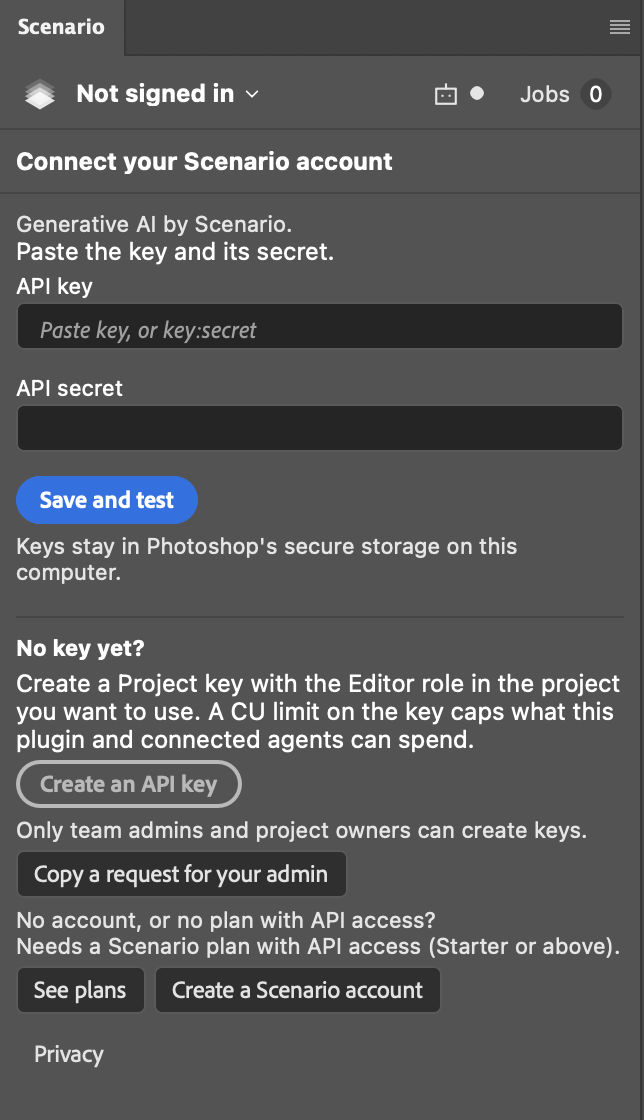
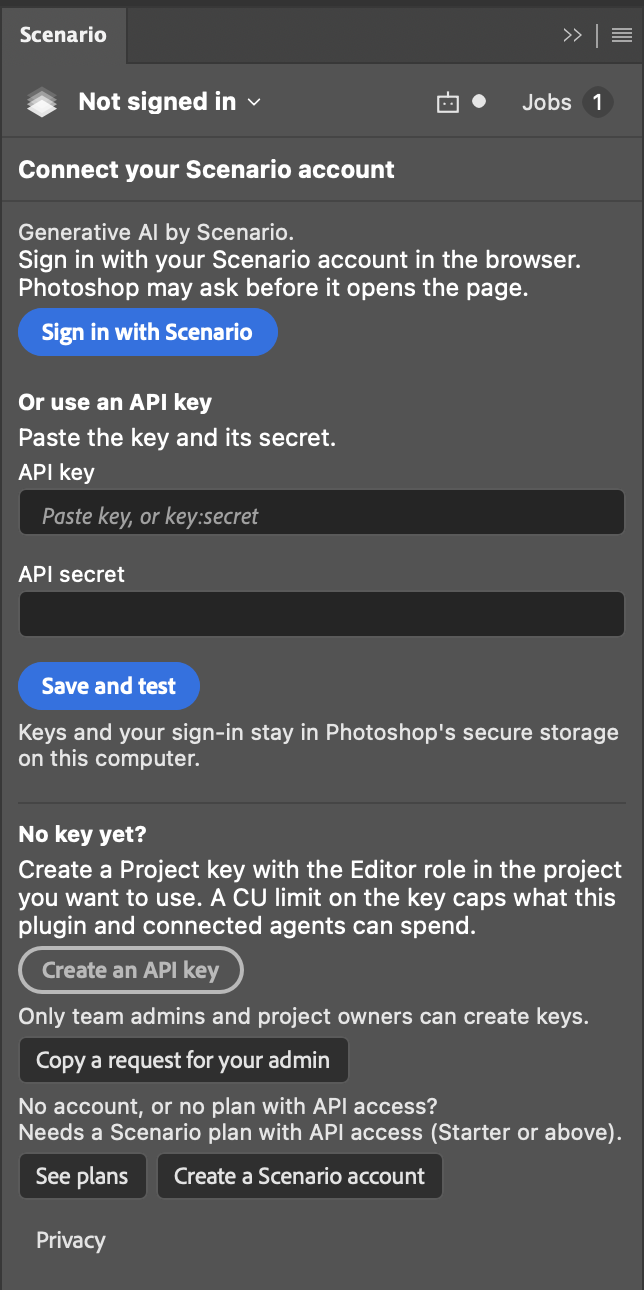
docs: Sign in with Scenario verified live in Photoshop 27.11
Known limitations, status and the changelog record the live run
against the development identity provider and staging: the
permission dialog, the approval page, the chooser, a paid run,
switching, Test connection after a restart, a declined sign-in and
Sign out, and what was not run live. The user guide, README and SPEC
4.6 describe the page as it is (no code shown, Copy code for a page
that asks). AGENTS.md gives the UI loop commands for the live check
and the sample-name demos. The first-run screenshot shows the new
sign-in view.

diff --git a/docs/STATUS.md b/docs/STATUS.md
@@ -9,7 +9,7 @@ Each statement below carries how it was checked: *verified live* (in Photoshop),
 ## What this build does
 
 - **Plugin** (`plugin/`): a compact panel in Photoshop's own style (12 px text, 13 px for the action, small controls, outline icons in the theme's text color, so it follows the four interface brightness themes). One header row: the Scenario mark, the project name, the agent icon with its dot and client name, and **Jobs** with a count. Below it: the context card (a picture and two lines, what is selected and where the result lands, with the progress while a run is generating), the action chips for that context (at most six, then **More**), then the Takes card and Recent in the part that scrolls, and the composer pinned at the bottom: the references row, the prompt (or one line for an action without one), the chips that set the model and its settings (each shows its value), the action button with its price and the settings icon. Projects, Settings, Connect an AI Agent, Diagnostics, Help, About and Sign Out are in the panel menu. Settings > Connect an AI agent holds the link status and the pairing token (Copy; Show and Reset under Details). Its startup code runs when Photoshop launches, even with the panel closed, and dials the helper on `ws://localhost:9890`; it calls Scenario only once the panel is shown or an agent asks. *Tested automated* (the built bundle runs in a fake UXP host). *Verified live* on Photoshop 27.11: the development build loads at launch and links to the helper. The creation panel in Photoshop: see **Look and live checks** below.
-- **Sign in with Scenario**: the device sign-in against Scenario's identity provider (SPEC 4.6). The panel shows the code and opens the browser page, then lists the account's teams and projects (one usable project is chosen at once). Requests carry a Bearer token and the chosen `projectId`; the refresh token stays in UXP secure storage, the access token in memory, refreshed one at a time and rotated. Projects has **Choose another project**; Test connection says when the chosen project is gone; Sign out revokes the sign-in. Development builds read a `dev-oauth-target.json` to use a development identity provider and API (see AGENTS.md). *Tested automated* against a mock identity provider and a mock API with two teams of two projects and a team without one. Live status: see [Known limitations](KNOWN_LIMITATIONS.md).
+- **Sign in with Scenario**: the device sign-in against Scenario's identity provider (SPEC 4.6). The panel shows the code and opens the browser page, then lists the account's teams and projects (one usable project is chosen at once). Requests carry a Bearer token and the chosen `projectId`; the refresh token stays in UXP secure storage, the access token in memory, refreshed one at a time and rotated. Projects has **Choose another project**; Test connection says when the chosen project is gone; Sign out revokes the sign-in. Development builds read a `dev-oauth-target.json` to use a development identity provider and API (see AGENTS.md). *Tested automated* against a mock identity provider and a mock API with two teams of two projects and a team without one. *Verified live* on 27.11 against the development identity provider and staging: sign-in, the chooser, a paid run, switching, Test connection after a restart, a declined sign-in and Sign out; details and what was not run in [Known limitations](KNOWN_LIMITATIONS.md).
 - **Sign-in**: paste a Project API key and its secret (pasting `key:secret` or the two on two lines fills both fields), then **Save and test**. The plugin makes two free reads on Scenario's API, an authenticated read and the project listing, and saves the key in UXP secure storage only when both pass. The panel header then shows the project name, or `Scenario project ....` and the key's last 4 characters when no name is readable. A key for another project can be added and switched from the project name in the header; Settings (in the panel menu) has **Test connection**, **Sign out** (the current project's key) and **Copy diagnostics**. Development builds can also be signed in from a `dev-api-key` file in the data folder, through the same check (see AGENTS.md); release builds do not contain that code. A refused key, a Reader key, a team (Organization) key and no connection each get their own message. *Tested automated* against a mock of Scenario's API that answers as the live API did, including a test that the key, the secret and the listing's member emails and key ids never reach logs, files, the helper, `scenario_status`, the panel or the clipboard. *Verified live* on Photoshop 27.11: Save and test and the save to secure storage, through the development key import. *Not tested* in Photoshop: typing or pasting into the fields, reading the masked secret field on macOS, and secure storage removal.
 - **Model catalog**: the model list (the project's own models, then Scenario's public catalog) is read when the panel is first shown, cached in the plugin's data folder and refreshed in the background once a day. Models are sorted into the Image, Edit, Enhance (Upscale, Expand, Remove BG) and Trained tabs from their tags and capabilities; deprecated models are hidden. The composer's **Model** chip lists the action's recommended model, then up to eight catalog models that can do the action, then **All models...**, which opens the picker: search, chips (All, Favorites, Recommended, and per tab References, Mask input, the Enhance tools, This project or Public), a tag menu, and favorites kept in the data folder. The **Style** chip offers **No style**, **Match an image** (a picture from the selection, a layer, all visible or a file goes as the run's style reference, with any model that takes references) and the project's trained styles (LoRAs and compositions), on the edit actions and on Create image, New layer and Add background. A trained style runs on the model it was trained on: the Model chip switches to that base, with **Change** for the image and strength route. The Model menu shows each model's price for this document, the project's trained models (**Run with**, characters first), and under a trained style the trained models that stack with it on its base. *Tested automated*. *Not tested* in Photoshop.
 - **Actions and prices**: each context offers its actions (SPEC 3.2). No document: Create image. A layer: Make versions, Extend canvas, Upscale, Remove background, New layer. A cut-out layer (masked, or smaller than the canvas): Add background first. A selection: Replace inside, Remove, Make versions, Cut out subject (on a new layer; the layer stays as it is, the selection is dropped in the same History state and the new layer becomes the cut-out context). A group of takes: Compare takes, More like this, Refine, Upscale kept take. **More** lists the context's other actions that run in this build, in groups; a pin adds one to the chips, kept per context in the data folder. Each action opens on its default model (Ideogram 4.5 Precise Edit for Replace inside and Ideogram 4.5 for Remove, from a comparison of four masked models on 2026-10-20; GPT Image 2.5 Flare for images, the other edits and Extend canvas; at Medium quality unless the settings icon picks High or Low; Topaz Image Upscale at 2x; 851 Labs Background Remover) with the chips it needs (edit, style, model, takes, size, target, factor, change amount). Replace inside's **Edit** chip reads Inside selection (everything outside the selection stays as it is) or Bolder (GPT Image 2.5 Flare, a stronger change: the mask of each take grows over what the model drew past the selection, up to 60% of its area, and the layer metadata records by how much). The checks tell a picture that moved (**May be misaligned**, a shift of 1 px or more away from the edit) from one the model re-rendered in place. Remove, Make versions with an empty prompt and Extend canvas send a built-in prompt, written in SPEC 3.5. The form is checked against the model's schema before any price check, then priced 400 ms after the last change, and the price shows on the button: `Replace inside · 3 CU`. Prices can be exact (`Free` for zero), a range or a `from` price; an action that needs a prompt reads `Fill in the prompt to see the price` until it has one. After a run that is not masked to a selection, the new group or layer is selected, so the next action works on the result. *Tested automated* in a DOM built from the panel's HTML, against a mock of Scenario's API that answers with responses recorded from the live API (one Flare take 2 CU, an edit with two takes 3 CU, 851 Labs 1 CU, Topaz by document size). *Not tested* in Photoshop unless marked below.

diff --git a/docs/spec/SPEC.md b/docs/spec/SPEC.md
@@ -690,7 +690,7 @@ The plugin classifies Scenario errors by HTTP status and the body's text: REST e
 | Rate limited (429) on a paid call | "Not sent: Scenario asked to wait N s." Paid requests pause for N s, or 60 s when Scenario gives no time | the button, enabled after the wait |
 | A price check that created a job | "A price check created a job on Scenario. Price checks are stopped until Photoshop restarts." | none |
 | Catalog failed | "Models could not load." | **Retry** |
-| Model no longer available | "This model is no longer available to this key." | the Model chip |
+| Model no longer available | "This model is no longer available in this project." | the Model chip |
 | No document open | The context card reads "No document open"; Create image is the action | none |
 | Hidden source layer | "Layer "x" is hidden. Show it to use it as the source." | none |
 | 32-bit document | "32-bit documents are not supported yet. Convert a copy to 16-bit." | none |
@@ -811,17 +811,17 @@ Nearest design for automation: sign in once per machine and user in the panel; t
 A Project key belongs to one project. The plugin keeps one key per project, one `secureStorage` entry each, named by a hash of the key id, never by the project name, because entry names are stored unencrypted (documented). The project name in the header opens the Projects view (a full panel view, like the model picker): the projects with a saved key, then **Add a key for another project**. Switching changes the trained models, the Library, the On Scenario tab, and where uploads and results go. Running jobs keep their own project. Quotes and jobs bind a hash of the key id, so a switch invalidates open quotes.
 
 
-A browser sign-in (section 4.6) has no key: the account chooses a project, and each project it chooses is a row of the same list. Its quotes and jobs bind a hash of the identity provider, the signed-in subject and the project id instead of a key hash.
+A browser sign-in (section 4.6) has no key: the account chooses a project, and each project it chooses is a row of the same list, with its team where a key row shows the key's ending. Its quotes and jobs bind a hash of the identity provider, the signed-in subject and the project id instead of a key hash.
 
 ### 4.6 Sign in with Scenario
 
 1. **Sign in with Scenario** sits above the key fields. It runs the OAuth 2.0 device authorization grant (RFC 8628) against Scenario's identity provider as the Photoshop plugin's registered public application: no secret, scope `openid email profile offline_access`.
-2. The panel shows the user code and opens the verification page with the code in it (Photoshop asks first). **Open the page again**, **Copy code** and **Cancel** stay under the code. The panel polls the token endpoint at the interval the identity provider gives, slower after `slow_down`, until the person approves, declines (`access_denied`), the code expires (`expired_token`) or Cancel.
-3. With the tokens, `GET /v1/teams` lists the account's teams and the projects it may use in each. One usable project is chosen at once; several open **Choose a project**, grouped by team. Nothing is saved before a project is chosen; Back from the chooser revokes the new refresh token. An account with no usable project is told so.
+2. The panel shows the user code and opens the verification page with the code in it. Photoshop may ask first: on 27.11 it asked the first time, then opened the page without asking, also after a restart (live 2026-11-03). That page goes straight to Approve and Deny for the signed-in browser and does not show the code; the panel's code is for a page that asks for it (**Copy code**). **Open the page again**, **Copy code** and **Cancel** stay under the code. The panel polls the token endpoint at the interval the identity provider gives, slower after `slow_down`, until the person approves, declines (`access_denied`), the code expires (`expired_token`) or Cancel.
+3. With the tokens, `GET /v1/teams` lists the account's teams and the projects it may use in each. One usable project is chosen at once; several open **Choose a project**, grouped by team, teams and projects by name (Scenario's order changes from one read to the next), teams without a project last. Nothing is saved before a project is chosen; Back from the chooser revokes the new refresh token. An account with no usable project is told so.
 4. Requests carry `Authorization: Bearer` and the chosen project as `projectId`, except the team listing. The paid request's no-query rule (section 6.1) applies to what the caller passes; `projectId` is the only parameter added.
 5. The refresh token goes to `secureStorage`, one entry per signed-in person named by a hash of the issuer and subject; the access token stays in memory, so each Photoshop start refreshes once. A token with less than 60 s left is refreshed before the request, one refresh at a time, and the rotated refresh token is saved. A read answered 401 gets one new token and one more try; a paid request is never retried. A refresh the identity provider refuses (`invalid_grant`) signs that person out: their projects leave the list and the panel asks to sign in again.
 6. **Choose another project** in Projects reads the list again with the same sign-in. Test connection reads the chosen project's models and the list; a project that is gone (deleted, or the role removed) reads "The chosen project is no longer available" with **Choose a project**.
-7. **Sign out** revokes the refresh token at the identity provider and removes the sign-in and its projects from this computer.
+7. **Sign out** on any of its projects revokes the refresh token at the identity provider and removes the sign-in and all its projects from this computer.
 
 Development builds can point Sign in with Scenario at a development identity provider and API: a `dev-oauth-target.json` file in the plugin's data folder names the issuer, client id and API base, and `DEV_OAUTH_TARGET=<file> npm run package:dev` allows those hosts in the development package's manifest. Release builds remove that code.
 ---

diff --git a/docs/USER_GUIDE.md b/docs/USER_GUIDE.md
@@ -24,9 +24,9 @@ From install to a first image in about two minutes, once the package is built: 1
 
 1. **Install** the `.ccx` and restart Photoshop, then open **Plugins > Scenario**. The panel opens on **Connect your Scenario account**.
 
-   <img src="media/screens/first-run-sign-in.png" width="320" alt="The sign-in screen: API key and secret fields, Save and test, and links to create a key">
+   <img src="media/screens/first-run-sign-in.png" width="320" alt="The sign-in screen: Sign in with Scenario, then the API key and secret fields, Save and test, and links to create a key">
 
-2. **Sign in with Scenario.** Click **Sign in with Scenario**. Photoshop asks before it opens Scenario's sign-in page in your browser. The panel shows a code: check that the page shows the same one, then approve. **Open the page again**, **Copy code** and **Cancel** stay under the code while the panel waits. If your account can use several projects, **Choose a project** lists them by team; one click uses it. The project shows in the header, and **Choose another project** in Projects switches. Your sign-in stays in Photoshop's secure storage on this computer; **Sign out** in Settings removes it and ends it at Scenario.
+2. **Sign in with Scenario.** Click **Sign in with Scenario**. Photoshop may ask before it opens Scenario's sign-in page in your browser. Approve there; if the page asks for a code, enter the one the panel shows (**Copy code**). **Open the page again**, **Copy code** and **Cancel** stay under the code while the panel waits. If your account can use several projects, **Choose a project** lists them by team; one click uses it. The project shows in the header, and **Choose another project** in Projects switches. Your sign-in stays in Photoshop's secure storage on this computer; **Sign out** in Settings removes it and ends it at Scenario.
 3. **Or sign in with an API key.** On app.scenario.com, in the project you want to use, create a **Project key** with the **Editor** role. A CU limit on the key caps what this plugin and connected agents can spend. Only team admins and project owners can create keys; **Copy a request for your admin** prepares the message for them. Paste the key and the secret (pasting `key:secret`, or the two on two lines, fills both fields) and click **Save and test**. The plugin checks the key with two free reads and keeps it in Photoshop's secure storage on this computer. *Verified live* with the release package: `key:secret` pasted into the key field, then **Save and test**, which answered in about a second.
 4. **Make a new document** with **File > New** (Photoshop hides docked panels on its Home screen, so the panel shows once a document is open). On a blank canvas the panel opens on **Create image**: type a prompt and click the button, which shows its price. The image is made at the canvas's size and lands as a layer above the Background. On an image or a layer, **New layer** does the same.
 5. The context card shows the progress (Queued, Generating, Downloading), then the image lands as a new layer in one History state. *Verified live*.
@@ -248,7 +248,7 @@ Results are also in your Scenario project, so you find them again in the Library
 |---|---|
 | The panel is empty on Photoshop's Home screen | Open or create a document. Photoshop hides docked panels on Home |
 | "Scenario did not accept this key and secret." | Check you copied both, from a Project key. **Enter key again** or **Create an API key** |
-| "The sign-in was declined in the browser." or "The code expired before the sign-in finished." | **Sign in again**, and approve on the page that shows the panel's code |
+| "The sign-in was declined in the browser." or "The code expired before the sign-in finished." | **Sign in again**, and approve in the browser |
 | "This account has no project it can use." | Create a project on app.scenario.com, or ask a team admin for a role in one, then **Sign in again** |
 | "The chosen project is no longer available. Choose another one." | The project was deleted, or your role in it removed. **Choose a project** |
 | "Your Scenario sign-in ended. Sign in again." | Scenario no longer accepts the saved sign-in (signed out elsewhere, or revoked). **Sign in again** |

diff --git a/docs/KNOWN_LIMITATIONS.md b/docs/KNOWN_LIMITATIONS.md
@@ -19,7 +19,7 @@ Development build 0.7.1. This page lists what the build does not do yet, what it
 - **The panel is hidden on Photoshop's Home screen.** Photoshop hides docked panels there, so the panel shows once a document is open. The panel's own "no document" screen was never seen live.
 - **Document events while Photoshop is in the background.** With Photoshop in the background, its document events did not reach the panel, so the context card can show the previous document or selection until the panel reads the document again. Documents and changes made by a script (AppleScript or ExtendScript) send no event either: the panel catches up at the person's next click on a document tab, a menu item or a layer (*verified live*). The agent tools read Photoshop at call time: `scenario_status` listed a document made by ExtendScript at once (*verified live*, 2026-10-23).
 - **Sign-in**: pasting `key:secret` into the key field and **Save and test** are *verified live* with the release package (2026-10-23). Typing the key and secret by hand, and the error screens for a refused key or for a plan without API access, were *not tested* live. The pictures of those screens in the User Guide are drawn from the panel's own failure copy.
-- **Sign in with Scenario**: *tested automated* against a mock identity provider and a mock API (two teams of two projects and a team without one). Against Scenario's development identity provider and the staging API, the plugin's own sign-in modules under Node signed in with the code approved in a browser, listed two teams of two projects each, used a project, passed Test connection (a Bearer read with `projectId`) and signed out with the token revoked (2026-11-03). In Photoshop: *not tested* yet. A release needs the device grant on Scenario's production Photoshop application and that application accepted by the production API. Windows: *not tested*.
+- **Sign in with Scenario**: *tested automated* against a mock identity provider and a mock API (two teams of two projects and a team without one). Against Scenario's development identity provider and the staging API, the plugin's own sign-in modules under Node signed in with the code approved in a browser, listed two teams of two projects each, used a project, passed Test connection (a Bearer read with `projectId`) and signed out with the token revoked (2026-11-03). In Photoshop 27.11 on macOS (development build against the same services, 2026-11-03), *verified live*: Photoshop showed its Request For Permission dialog for the page the first time, and later sign-ins, also after a restart, opened it in the default browser without asking; the approval page went straight to Approve and Deny without showing the code; the chooser listed both teams with their projects (Scenario's order changed between two reads, so the panel now sorts by name); a chosen project priced and ran one Create image (Z-Image Turbo, 4 takes, 4 CU) whose takes downloaded and landed as a group; Choose another project switched and added the project's row; Test connection passed, and passed again after quitting and restarting Photoshop (the session refreshed from secure storage); Deny on the page showed "The sign-in was declined in the browser." with **Sign in again**; Sign out left no project saved. Not tested live: **Block** in Photoshop's dialog, a code that expires, `slow_down`, and a refresh refused with `invalid_grant`. A release needs the device grant on Scenario's production Photoshop application and that application accepted by the production API. Windows: *not tested*.
 - **Release package and first-run time** are *verified live* on macOS (2026-10-23): 1 min 53 s from install to a first image, with the clicks done by a script. Installing by double-clicking the `.ccx`, and installing on Windows, were *not tested*.
 - **One Photoshop at a time.** Two Photoshop instances on one computer sharing the helper's port: *not tested*.
 

diff --git a/AGENTS.md b/AGENTS.md
@@ -137,6 +137,8 @@ The upload and proposal cards are `.agentcard` nodes inside `#agent-cards`, whil
 
 A development build can use a development identity provider and API instead of production: put `dev-oauth-target.json` in the plugin's data folder with `issuer`, `client_id`, `api_base` and optionally `download_origins` (https only; it holds no secret and stays in place), and package with `DEV_OAUTH_TARGET=<that file> npm run package:dev` so the manifest allows those hosts. Never commit such a file: the hosts of a development instance are not public. The log says only that a development target is in use. A sign-in saved against one issuer reads as signed out under another.
 
+*Verified live* on 27.11 (2026-11-03) through the UI loop: `click '{"el":"signin-browser"}'` starts the sign-in (Photoshop's permission dialog for the page also comes up for a click from the loop, the first time only), `metrics` reads the code from `#signin-code`, the page is approved in a browser signed in to the development instance, `rects '{"sel":"[data-project]","full":true}'` lists the chooser's rows and `click '{"attr":"data-project","value":"<id>"}'` picks one. `view '{"name":"settings"}'` then `click '{"el":"settings-signout"}'` twice signs out. `demo` draws the code box (`{"what":"code"}`), the chooser (`{"what":"choose","args":{"teams":[...]}}`) and the Connected banner (`{"what":"connected","args":{...}}`) with sample names, for pictures without a real account.
+
 ## Try sign-in in Photoshop (development)
 
 *Verified live* on 27.11 (0.3.1): Save and test, run by the `dev-api-key` import with a Project key (Editor role), saved the key in secure storage, and `scenario_status` then reported `signed_in: true` and the project name. Typing or pasting into the panel's fields is *not tested* live. Use a Project API key with the Editor role; Save and test makes two free reads and spends nothing.

diff --git a/CHANGELOG.md b/CHANGELOG.md
@@ -7,7 +7,7 @@ All notable changes to this project are written here. The format follows [Keep a
 ### Added
 
 - The prompt box's height: drag the grip on the composer's top edge, as between two Photoshop panels, to make the prompt taller; double-click the grip to go back. The takes area above keeps at least 64 px, and the height is kept on this computer. *Tested automated*; the grip checked in place live on Photoshop 27.11, the drag not yet pressed live.
-- **Sign in with Scenario**: the panel signs in with your Scenario account in the browser (the OAuth device sign-in, no key to create), then lists your teams and projects to choose one. Requests carry the chosen project; Projects can choose another; Test connection says when the chosen project is gone; Sign out ends the sign-in at Scenario. The refresh token stays in Photoshop's secure storage. API keys keep working next to it. *Tested automated*.
+- **Sign in with Scenario**: the panel signs in with your Scenario account in the browser (the OAuth device sign-in, no key to create), then lists your teams and projects to choose one. Requests carry the chosen project; Projects can choose another; Test connection says when the chosen project is gone; Sign out ends the sign-in at Scenario. The refresh token stays in Photoshop's secure storage. API keys keep working next to it. *Tested automated*; *verified live* in Photoshop 27.11 against Scenario's development sign-in and staging API.
 
 ### Fixed
 

diff --git a/README.md b/README.md
@@ -50,7 +50,7 @@ You need Photoshop 2026 (27.x; tested on 27.11 on macOS) and a Scenario account 
 
 ## First generation
 
-1. In the panel, click **Sign in with Scenario**. Photoshop asks before it opens Scenario's sign-in page in your browser; check that the page shows the panel's code and approve. If your account can use several projects, choose one.
+1. In the panel, click **Sign in with Scenario**. Photoshop may ask before it opens Scenario's sign-in page in your browser; approve there (if the page asks for a code, enter the panel's). If your account can use several projects, choose one.
 2. Or use an API key: on [app.scenario.com](https://app.scenario.com), open your project's API keys and create a **Project key** with the **Editor** role, then paste the key and its secret in the panel (pasting `key:secret` fills both fields) and click **Save and test**.
 3. Open or create a document. On a blank canvas the panel offers **Create image**, and on an image or a layer **New layer**. Type what you want and click the blue button. It shows the price, for example `Create image · 13 CU` for four takes.
 
